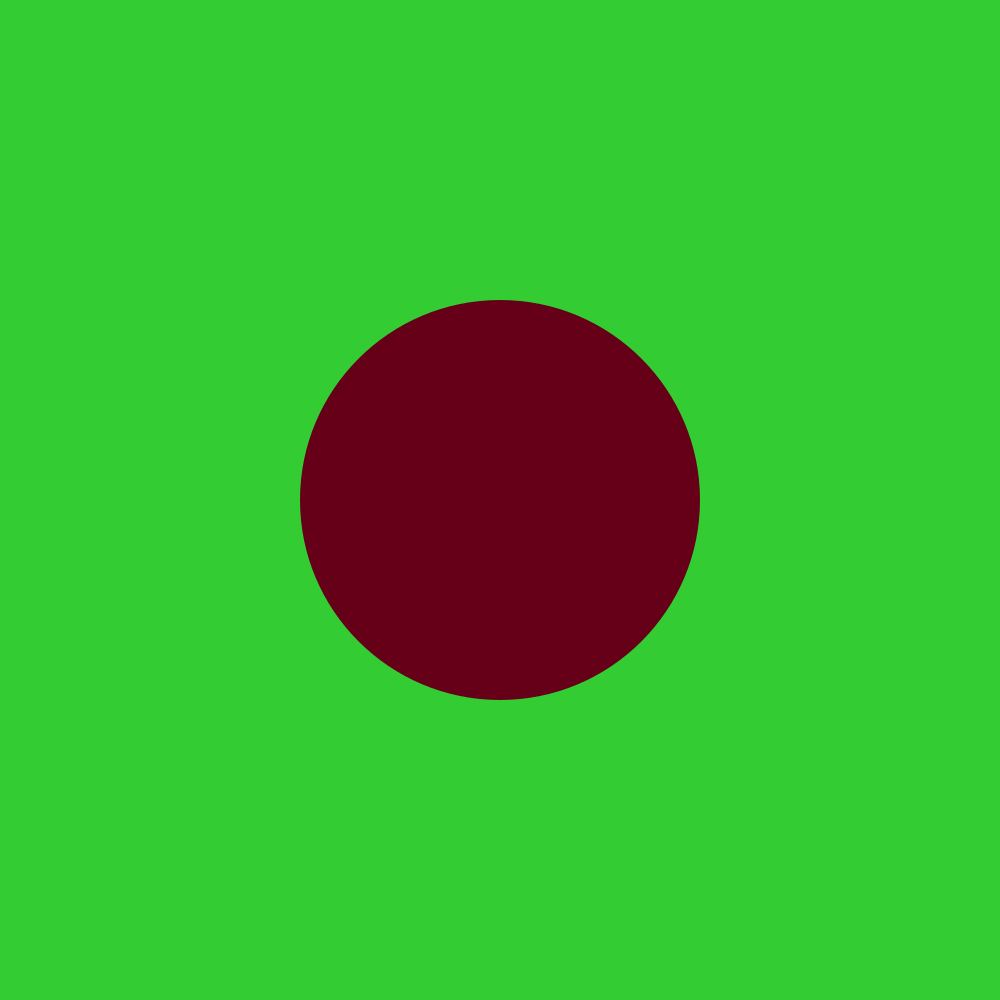
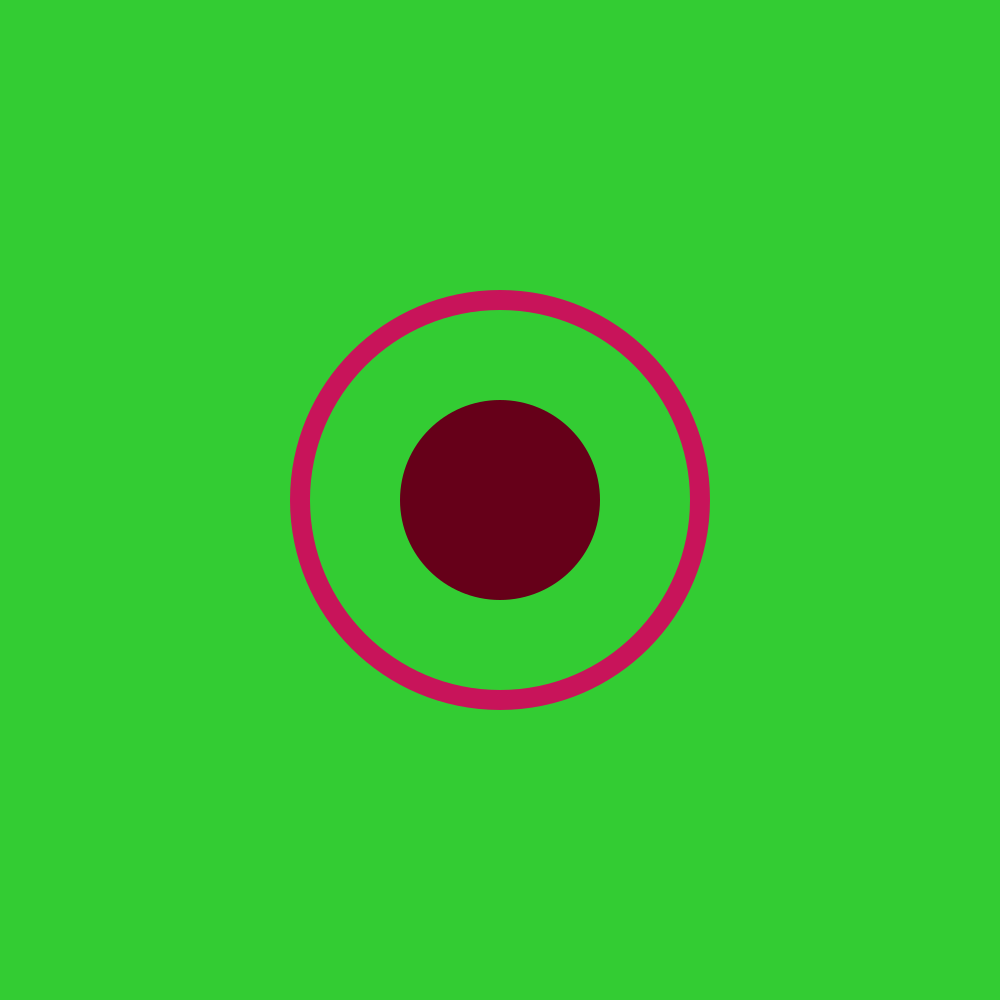
add stroke

Changed region(s): [[0.279, 0.279, 0.713, 0.713]]

diff --git a/Cairo_Utils/colour.py b/Cairo_Utils/colour.py
@@ -12,6 +12,12 @@ class Colour:
         self._ctx.set_source_rgba(*Colour._unpack_rgba(rgba))
         self._ctx.fill()
 
+    def stroke(self, linewidth, colour):
+        colour = self.colour(colour)
+        self._ctx.set_source_rgba(*colour)
+        self._ctx.set_line_width(linewidth)
+        self._ctx.stroke()
+
     def colour(self, colour):
         colour_type = self.get_colour_type(colour)
         if colour_type == float:

diff --git a/Cairo_Utils/canvas.py b/Cairo_Utils/canvas.py
@@ -25,7 +25,8 @@ if __name__ == '__main__':
 
     c.background_fill((.2, .8, .2))
 
-    c.circle(500, 500, 200)
+    c.circle(500, 500, 100)
     c.fill((0.4, 0., 0.1))
-
+    c.circle(500, 500, 200)
+    c.stroke(20, (200, 20, 90))
     c.save_as_png('test.png')
